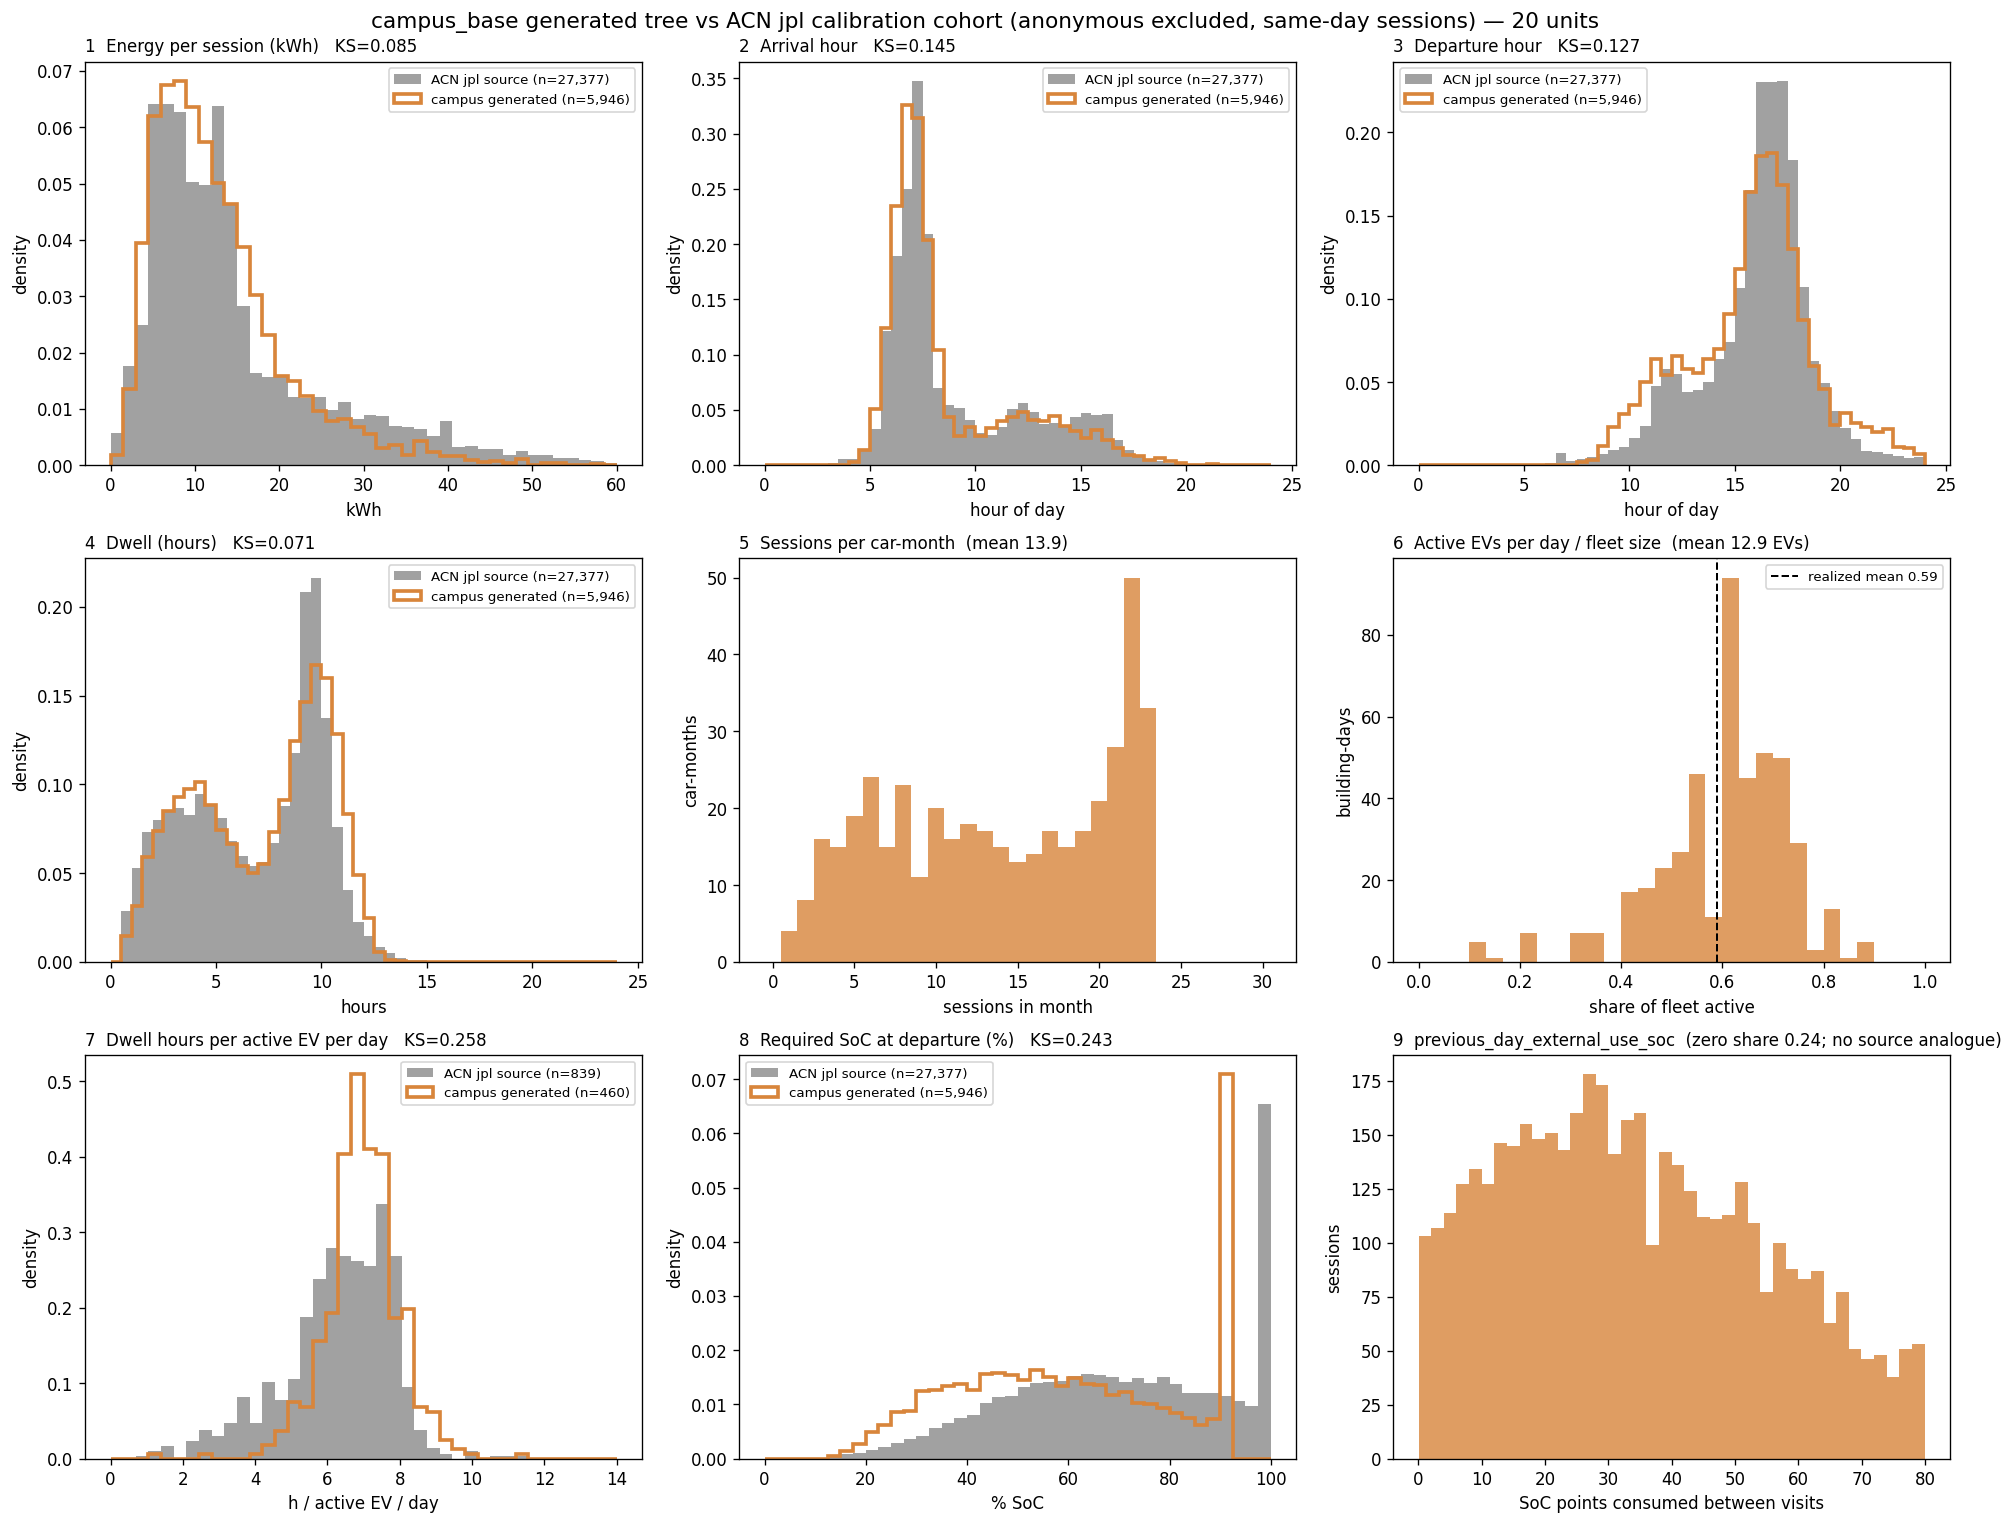
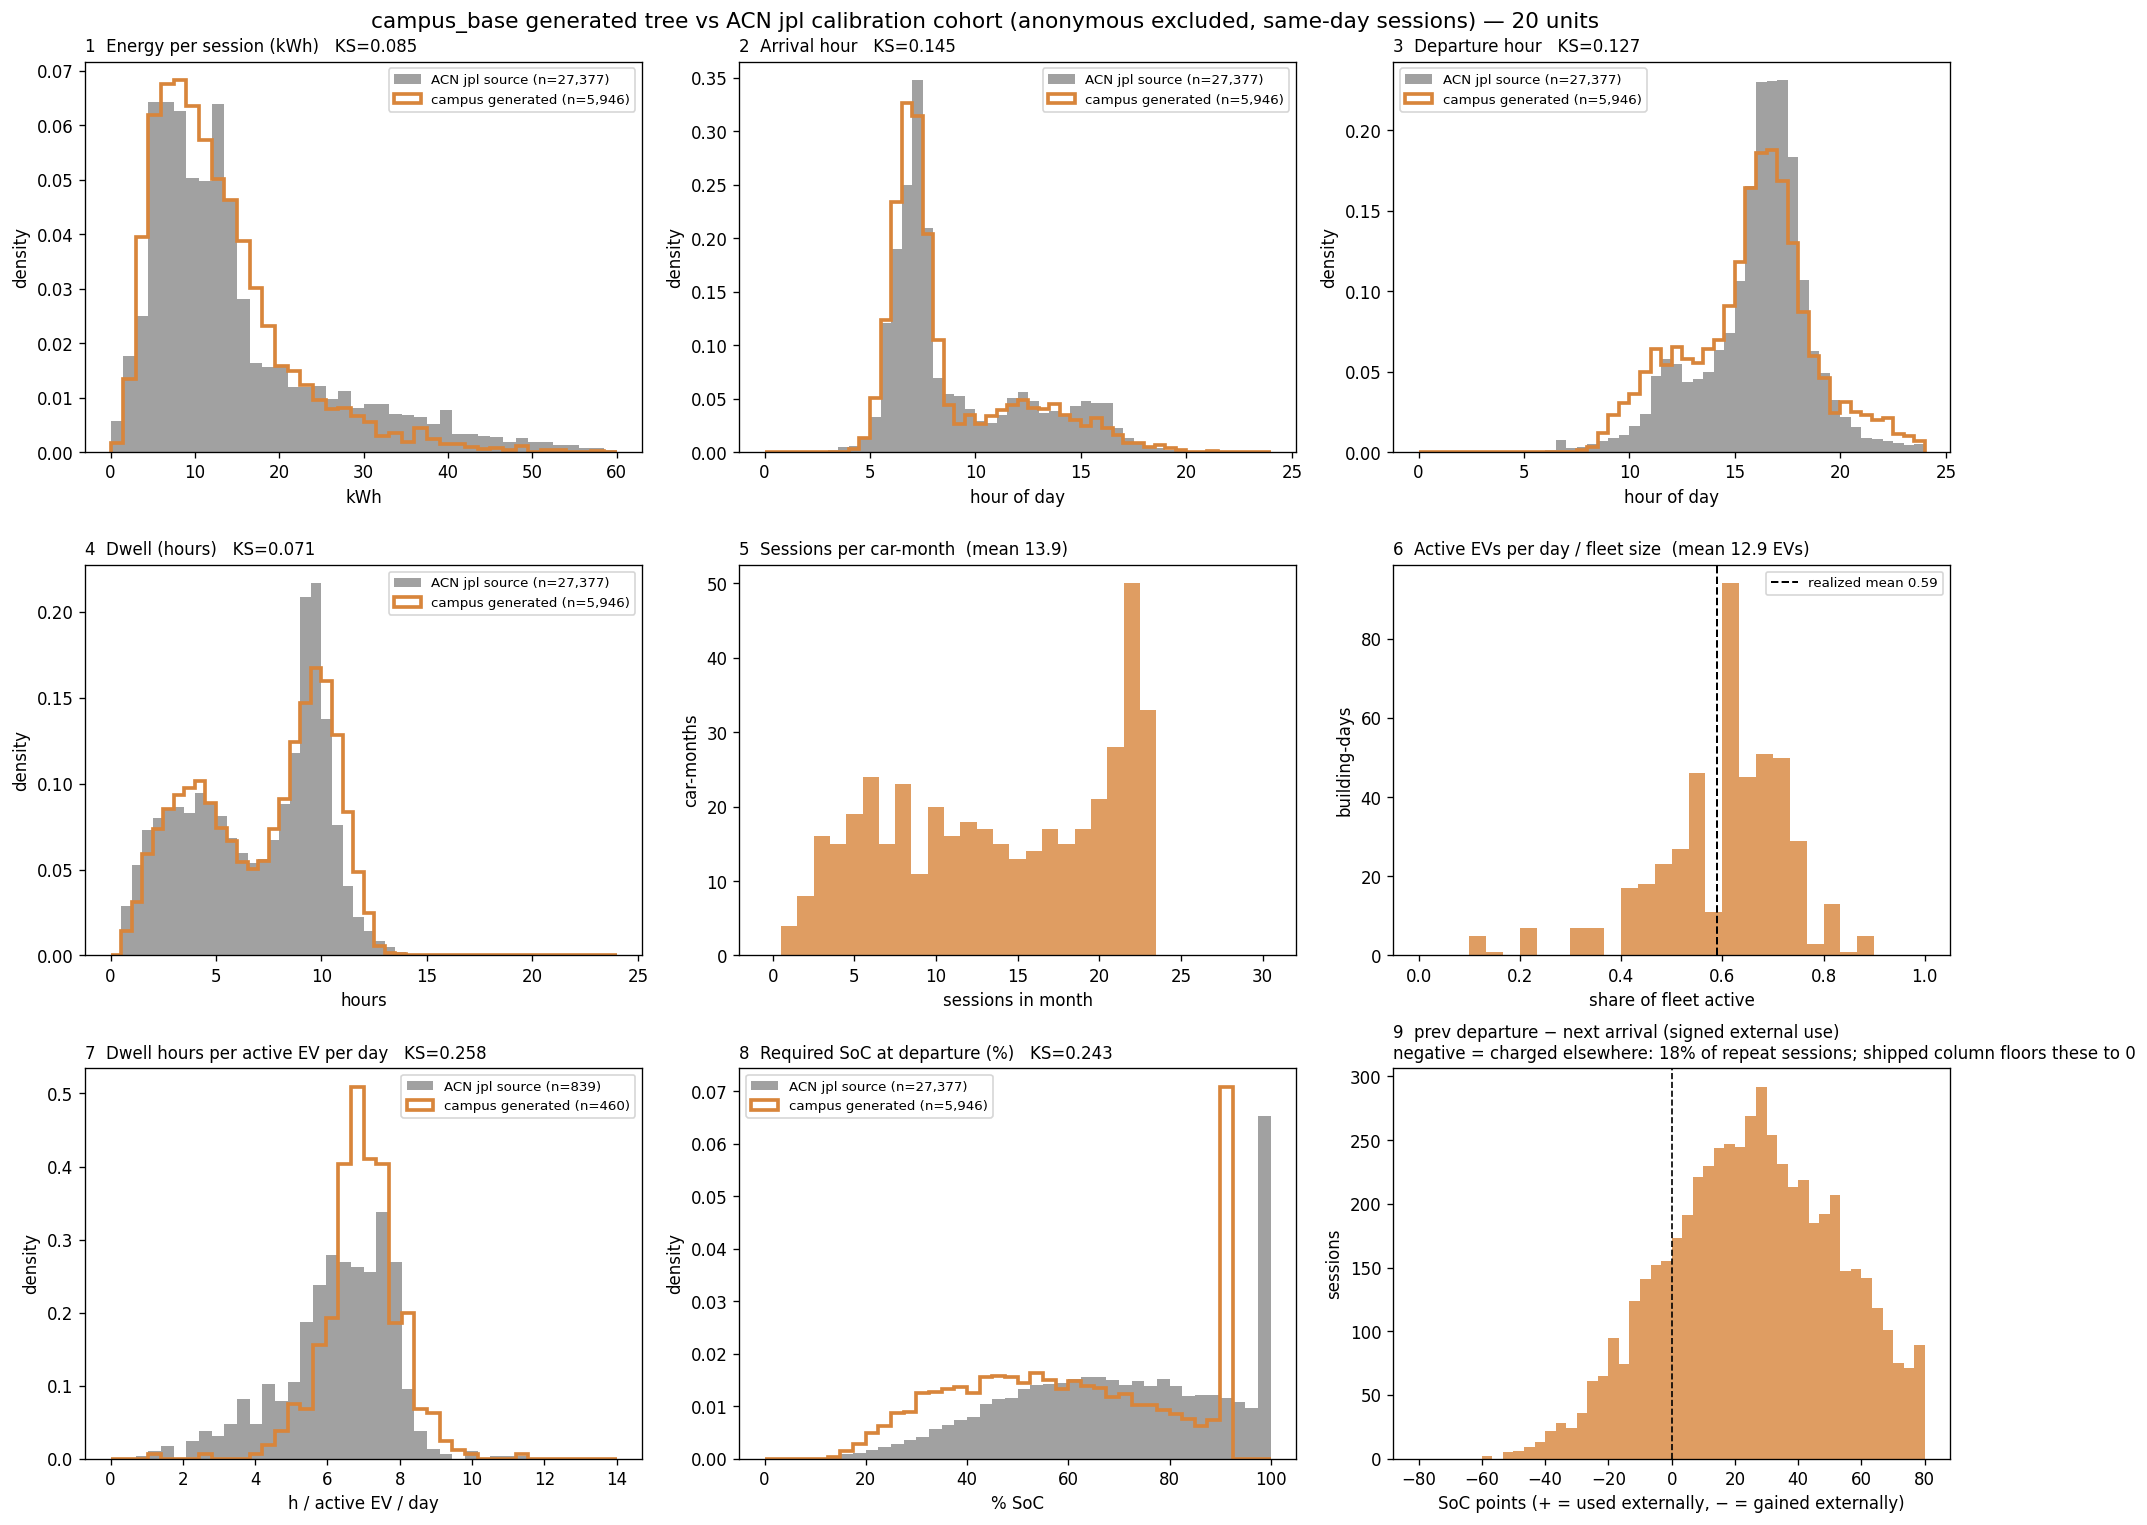
feat(tools): panel 9 shows SIGNED external SoC change (prev departure − next arrival)
Claude-Session: https://claude.ai/code/session_015aFZkWUptWfjyAEGgcBmA2

diff --git a/tools/campus/campus_overview.py b/tools/campus/campus_overview.py
@@ -98,6 +98,12 @@ def _load_generated(root: Path, max_units: int | None):
             a = pd.to_datetime(g["arrival"]); d = pd.to_datetime(g["departure"])
             kwh = (g["departure_soc"] - g["arrival_soc"]) / 100.0 * cap
             gg = pd.read_csv(f, usecols=["previous_day_external_use_soc"])
+            # signed external SoC change: prev departure_soc − this arrival_soc
+            # per car in arrival order (positive = consumed away from the
+            # building, negative = net external charging, e.g. at home).
+            gs = g.sort_values(["car_id", "arrival"])
+            signed = (gs.groupby("car_id")["departure_soc"].shift(1)
+                      - gs["arrival_soc"])
             rows.append(pd.DataFrame({
                 "b": bdir.name,
                 "arr_h": a.dt.hour + a.dt.minute / 60.0,
@@ -106,6 +112,7 @@ def _load_generated(root: Path, max_units: int | None):
                 "kwh": kwh,
                 "req_soc": g["departure_soc"],
                 "prev_ext": gg["previous_day_external_use_soc"],
+                "ext_signed": signed.reindex(g.index),
                 "car": g["car_id"],
                 "month": a.dt.to_period("M").astype(str),
                 "unit": ckey,
@@ -187,15 +194,20 @@ def main(argv=None) -> int:
     overlay(ax[2, 1], sdep_soc, g["req_soc"].to_numpy(), 40, (0, 100),
             "8  Required SoC at departure (%)", "% SoC")
 
-    # 9: previous-day external use (chain draw) — generated only; no dataset
-    # observes between-visit consumption.
+    # 9: SIGNED external SoC change between visits (prev departure − arrival),
+    # generated only — no dataset observes between-visit behavior. Positive =
+    # consumed away from the building; negative = net external charging (home).
+    # The shipped previous_day_external_use_soc column is this, floored at 0.
     a9 = ax[2, 2]
-    pe = g["prev_ext"].to_numpy()
-    a9.hist(pe[pe > 0], bins=40, color=GEN_C, alpha=0.8)
-    a9.set_title(f"9  previous_day_external_use_soc  "
-                 f"(zero share {np.mean(pe <= 0):.2f}; no source analogue)",
-                 fontsize=10, loc="left")
-    a9.set_xlabel("SoC points consumed between visits"); a9.set_ylabel("sessions")
+    es = g["ext_signed"].dropna().to_numpy()
+    a9.hist(es, bins=np.linspace(-80, 80, 49), color=GEN_C, alpha=0.8)
+    a9.axvline(0, color="k", lw=1.0, ls="--")
+    neg = float(np.mean(es < 0))
+    a9.set_title(f"9  prev departure − next arrival (signed external use)\n"
+                 f"negative = charged elsewhere: {neg:.0%} of repeat sessions; "
+                 f"shipped column floors these to 0", fontsize=10, loc="left")
+    a9.set_xlabel("SoC points (+ = used externally, − = gained externally)")
+    a9.set_ylabel("sessions")
 
     lines = [f"{b}: {v['units']} units  {v['sessions']:,} sessions  {v['mwh']:.1f} MWh EV"
              for b, v in per_b.items()]
